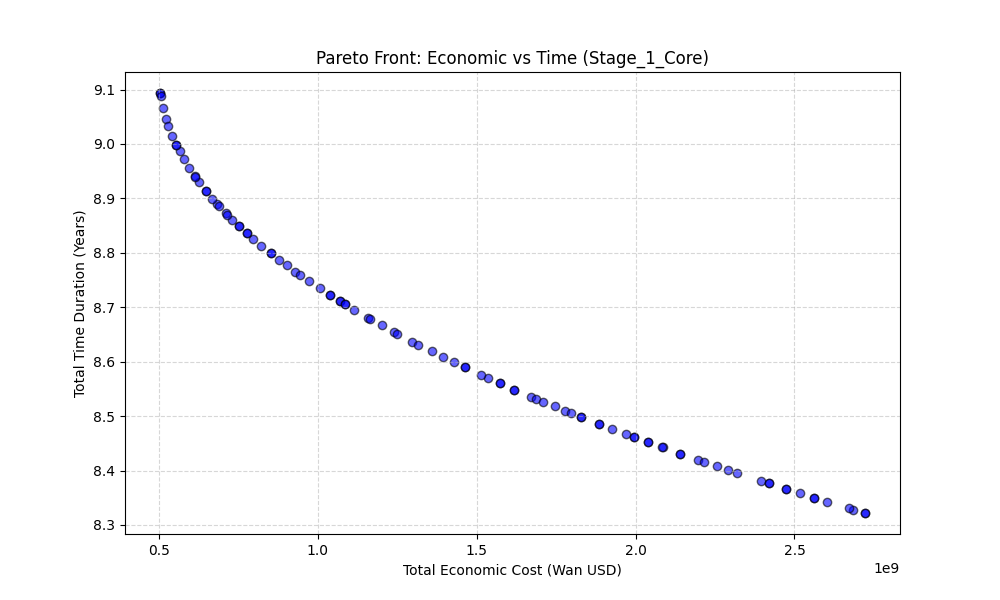
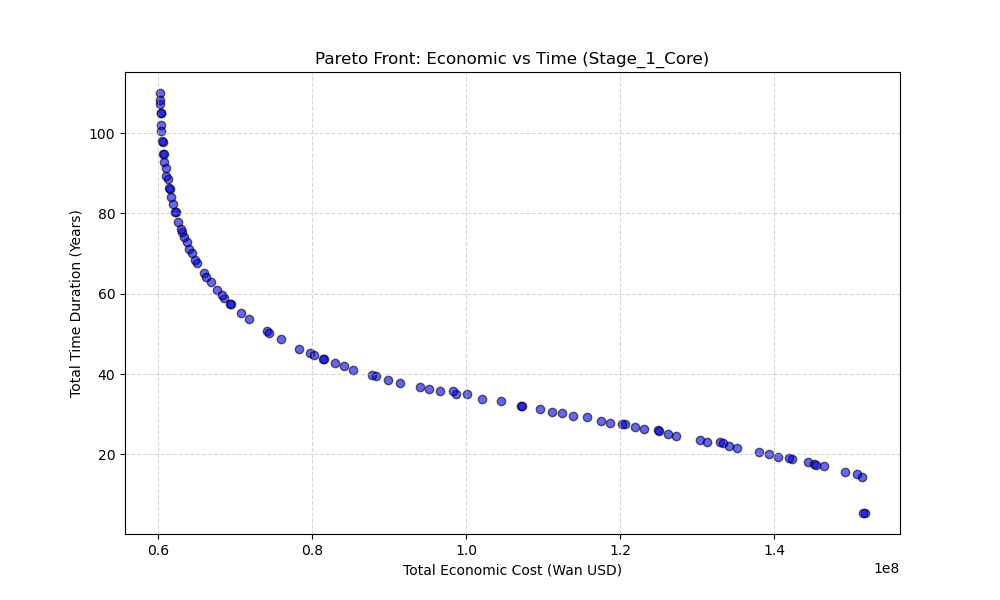
cost 非线性修改

diff --git a/algorithm/cost.py b/algorithm/cost.py
@@ -19,12 +19,14 @@ class RocketParams:
     N_sites: int = 10                         # 发射场数量
     N_plat: int = 10                           # 每个发射场的发射台数量
     maintenance_cost_per_year: float = 200.0  # 年维护成本（万美元）
+    alpha: float = 0.002                         # 大量发射折扣系数
+    lambda_: float = 0.999                 # 发射价格折扣系数
 
 
 @dataclass
 class ElevatorParams:
     """太空电梯参数配置"""
-    C_repair_per_kg: float = 0.5              # 单位质量维修成本（美元/千克）
+    C_repair_per_kg: float = 500              # 单位质量维修成本（美元/千克）
     C_labor_per_ton: float = 100.0            # 单位质量人工成本（美元/吨）
     max_capacity_year: float = 179000.0       # 年最大运输能力（吨）
     maintenance_cost_per_year: float = 500.0  # 年固定维护成本（万美元）
@@ -47,8 +49,12 @@ class RocketCostCalculator:
         Args:
             launch_frequency: 每发射台每年发射次数
         """
-        total_launches = launch_frequency * self.params.N_sites * self.params.N_plat
-        launch_cost = total_launches * self.params.C_rock
+        total_launches = launch_frequency * self.params.N_sites * self.params.N_plat * (1.0 /(1.0 + self.params.alpha * launch_frequency))
+        # print(f"Debug: launch_frequency={launch_frequency}, facteur={1.0 /(1.0 + self.params.alpha * launch_frequency)}")
+        # 加入折扣因素
+        discount = max(self.params.lambda_ ** (total_launches / 100), 0.6)
+        #print(f"Debug: total_launches={total_launches}, discount={discount}")
+        launch_cost = total_launches * self.params.C_rock * discount
         maintenance_cost = self.params.maintenance_cost_per_year
         total_cost = launch_cost + maintenance_cost
         
@@ -60,7 +66,7 @@ class RocketCostCalculator:
     
     def get_annual_capacity(self, launch_frequency: int) -> float:
         """获取火箭年运输能力（吨）"""
-        total_launches = launch_frequency * self.params.N_sites * self.params.N_plat
+        total_launches = launch_frequency * self.params.N_sites * self.params.N_plat * (1.0 /(1.0 + self.params.alpha * launch_frequency))
         return total_launches * self.params.M_rock
 
 
@@ -78,19 +84,22 @@ class ElevatorCostCalculator:
         energy_j = G * M_EARTH * mass_kg * (1/R_EARTH - 1/R_GEO)
         return energy_j
     
-    def calculate_energy_cost(self, mass_tons: float) -> float:
+    def calculate_energy_cost(self, mass_tons: float, utilization_rate: float) -> float:
         """计算能源成本（万美元）"""
         mass_kg = mass_tons * 1000
         energy_j = self.calculate_ideal_energy(mass_kg)
-        energy_actual_j = energy_j / self.params.eta  # 实际能耗 = 理想能耗 / 效率
+        efficiency = min(self.params.eta ,np.exp(-utilization_rate))
+        # print(f"Debug: mass_kg={mass_kg}, energy_j={energy_j}, efficiency={efficiency}")
+        energy_actual_j = energy_j / efficiency  # 实际能耗 = 理想能耗 / 效率
         energy_kwh = energy_actual_j * J_TO_KWH
         cost_usd = energy_kwh * p_e
         return cost_usd / 10000  # 转万美元
     
-    def calculate_maintenance_cost(self, mass_tons: float) -> float:
+    def calculate_maintenance_cost(self, mass_tons: float, utilization_rate: float) -> float:
         """计算维护成本（万美元）"""
         mass_kg = mass_tons * 1000
-        variable_cost_usd = mass_kg * self.params.mu * self.params.C_repair_per_kg
+        variable_cost_usd = mass_kg * (self.params.mu * np.exp(utilization_rate) * self.params.C_repair_per_kg)
+        # print(f"Debug: facteur={self.params.mu * np.exp(utilization_rate)}, mass_kg={mass_kg}, variable_cost_usd={variable_cost_usd}")
         variable_cost_wan = variable_cost_usd / 10000
         fixed_cost_wan = self.params.maintenance_cost_per_year + self.params.C_supervision_per_year
         return variable_cost_wan + fixed_cost_wan
@@ -121,10 +130,10 @@ class ElevatorCostCalculator:
         """
         annual_mass = self.params.max_capacity_year * utilization_rate  # 吨
         
-        energy_cost = self.calculate_energy_cost(annual_mass)
-        maintenance_cost = self.calculate_maintenance_cost(annual_mass)
+        energy_cost = self.calculate_energy_cost(annual_mass, utilization_rate)
+        maintenance_cost = self.calculate_maintenance_cost(annual_mass, utilization_rate)
         labor_cost = self.calculate_labor_cost(annual_mass)
-        total_cost = (energy_cost ** 2)  + maintenance_cost + labor_cost
+        total_cost = energy_cost + maintenance_cost + labor_cost
         
         return {
             'energy_cost_per_year': energy_cost,
@@ -180,7 +189,7 @@ if __name__ == "__main__":
     # 示例：总重量10000吨，太空电梯利用率80%，火箭年发射50次
     economic_cost, time_cost = calculate_total_costs(
         total_mass=10000.0,
-        elevator_utilization=0.8,
+        elevator_utilization=1.0,
         rocket_launch_frequency=365
     )
     
@@ -198,10 +207,10 @@ if __name__ == "__main__":
     
     # 查看太空电梯成本明细
     elevator_calc = ElevatorCostCalculator()
-    detail = elevator_calc.calculate_economic_cost(0.8)
+    detail = elevator_calc.calculate_economic_cost(1.0)
     print(f"\n太空电梯年度成本明细:")
     print(f"  能源成本: {detail['energy_cost_per_year']:.2f} 万美元")
     print(f"  维护成本: {detail['maintenance_cost_per_year']:.2f} 万美元")
     print(f"  人工成本: {detail['labor_cost_per_year']:.2f} 万美元")
     print(f"  总成本: {detail['total_cost_per_year']:.2f} 万美元")
-    print(f"  年运输能力: {elevator_calc.get_annual_capacity(0.8):.2f} 吨")
+    print(f"  年运输能力: {elevator_calc.get_annual_capacity(1.0):.2f} 吨")

diff --git a/run.py b/run.py
@@ -27,9 +27,9 @@ def main():
     # --- 1. 定义三个阶段的参数 ---
     # 你可以根据实际模型调整任务重量
     stage_configs = [
-        {"mass": 5e7, "priority": "time",     "tag": "Stage_1_Core"},
-        {"mass": 4e7, "priority": "balanced", "tag": "Stage_2_Expand"},
-        {"mass": 3e7, "priority": "cost",     "tag": "Stage_3_Sustain"}
+        {"mass": 2e7, "priority": "time",     "tag": "Stage_1_Core"},
+        {"mass": 6e7, "priority": "balanced", "tag": "Stage_2_Expand"},
+        {"mass": 2e7, "priority": "cost",     "tag": "Stage_3_Sustain"}
     ]
     
     summary_results = []
